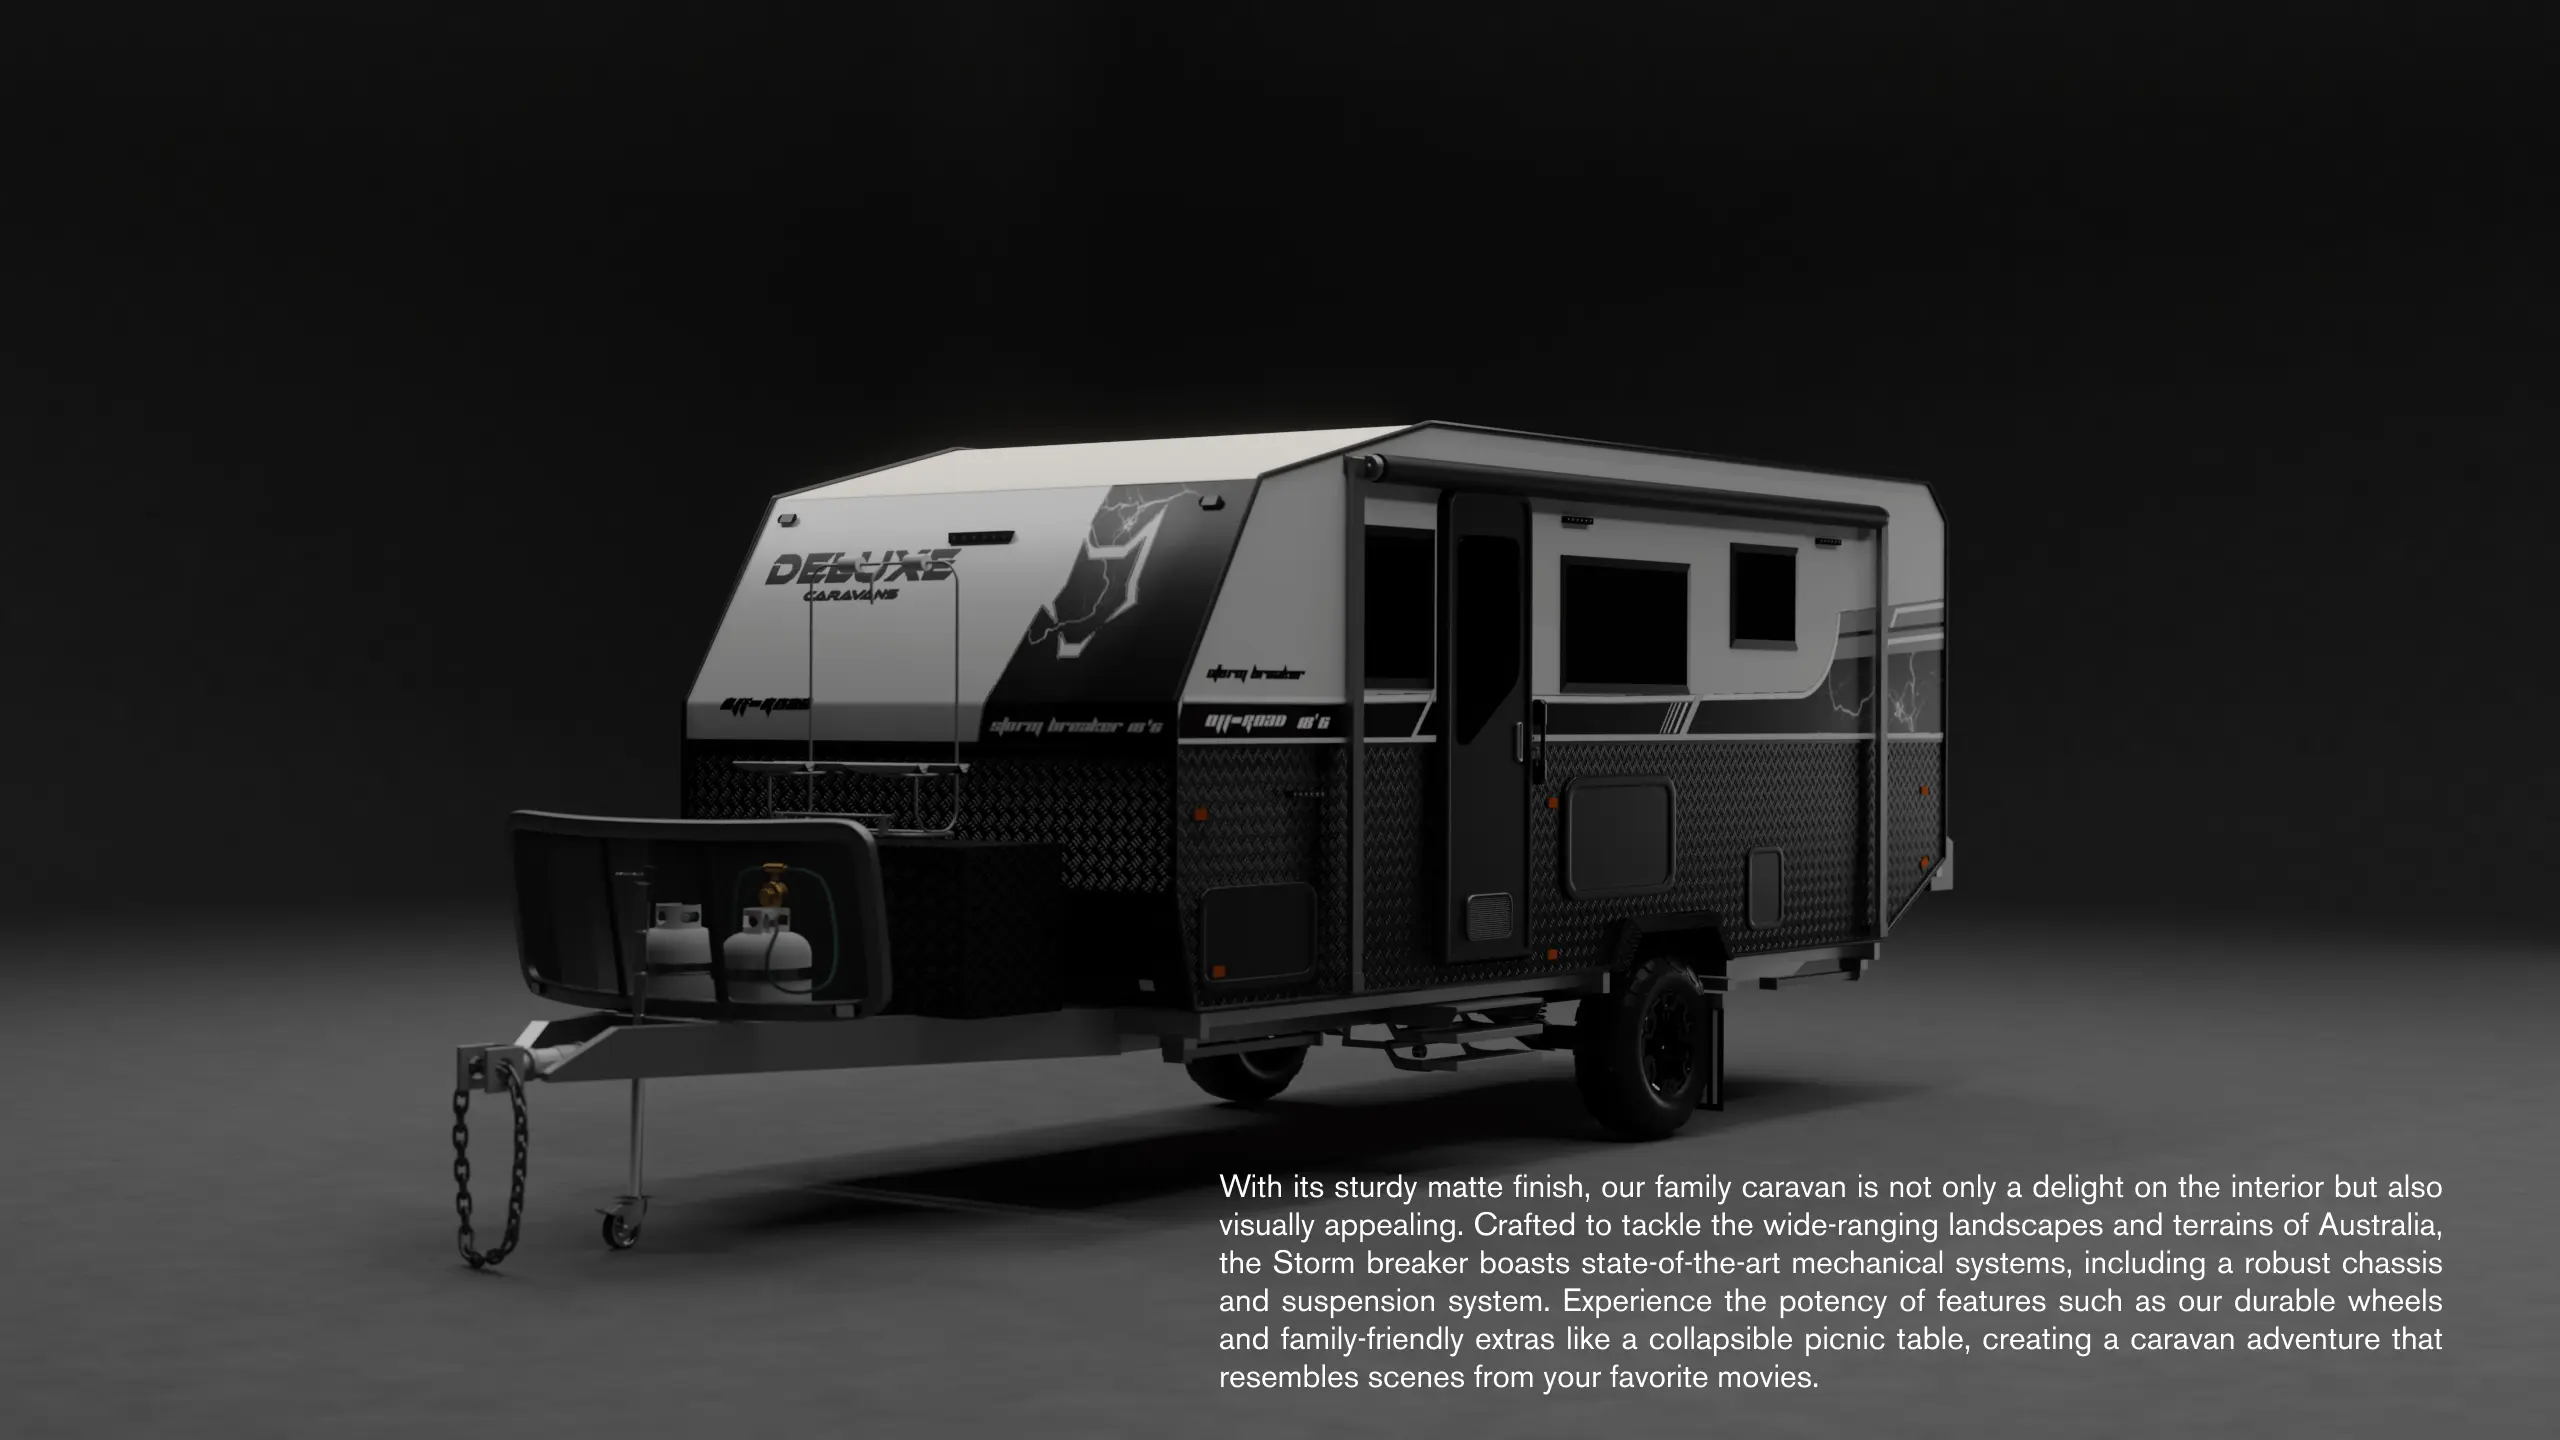
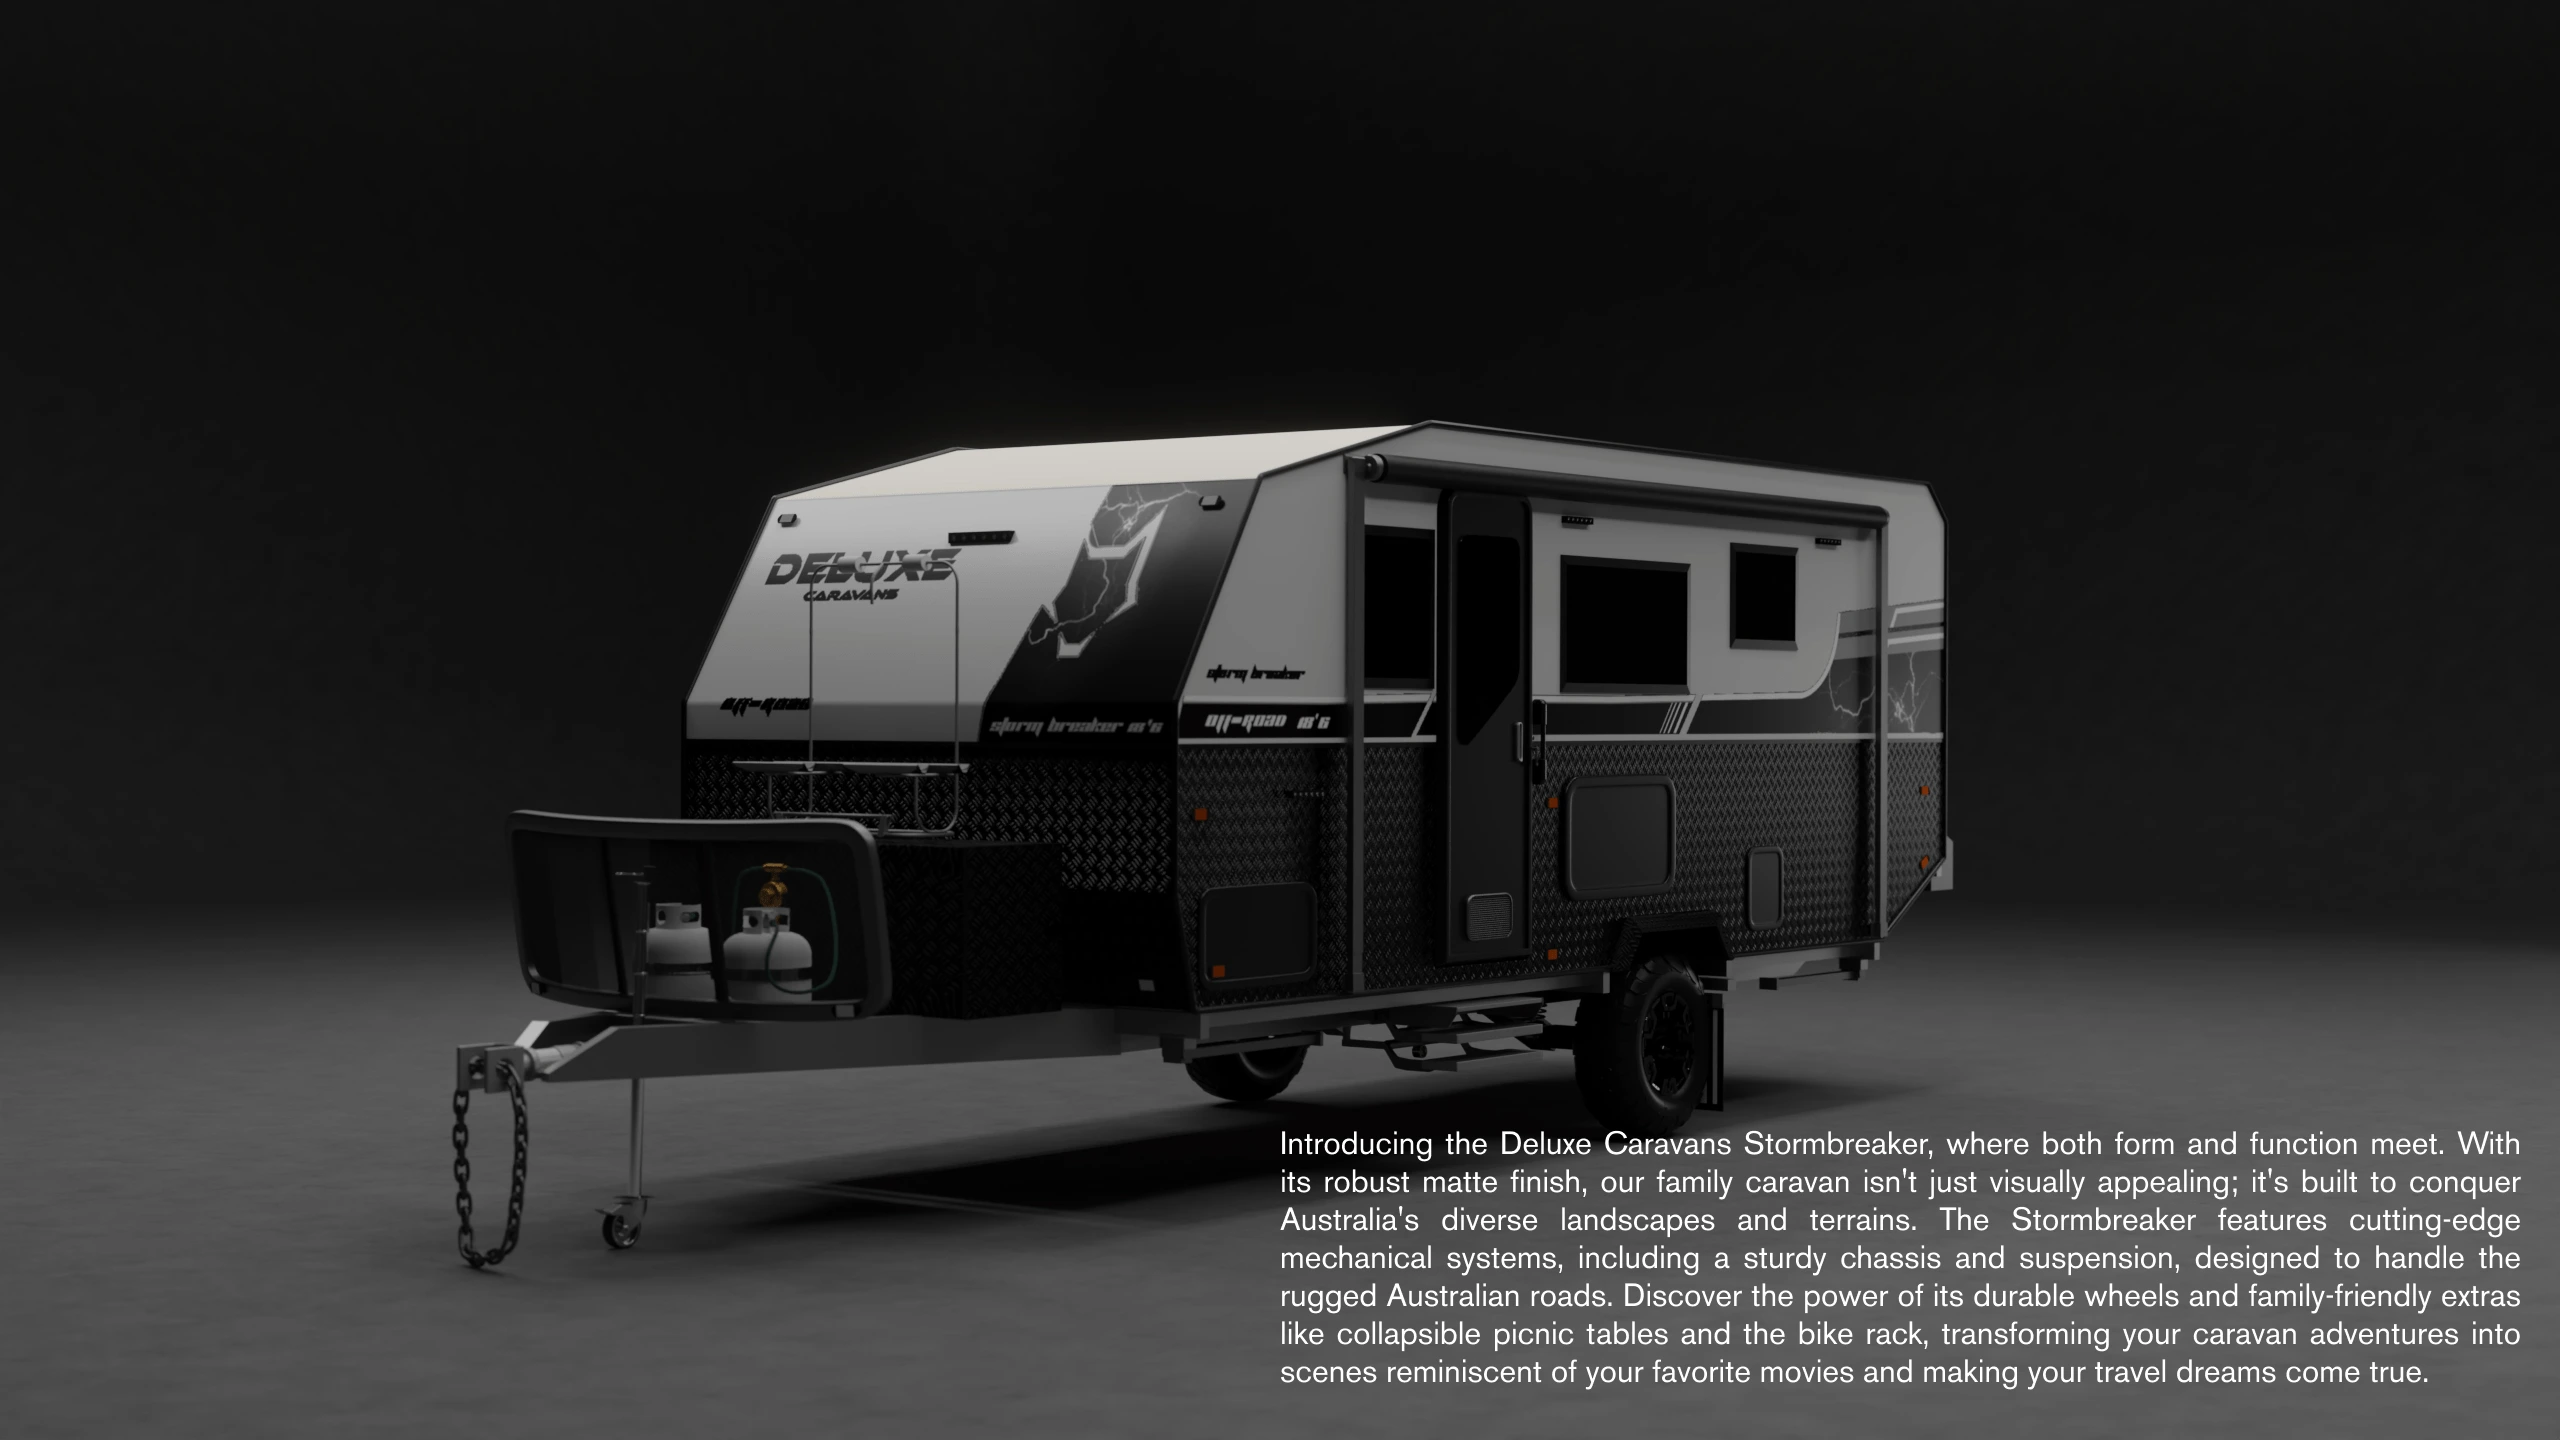
final version

Changed region(s): [[0.4688, 0.7812, 1.0, 0.9688]]

diff --git a/src/components/products/Stormbreaker21.jsx b/src/components/products/Stormbreaker21.jsx
@@ -103,18 +103,8 @@ function Stormbreaker21() {
         <div className="product-container" id="layout">
           <div className="description">
             <p>
-              Are you in search of a more spacious family bunk van? Look no
-              further; the Storm breaker 21'6 is the answer you've been seeking.
-              With this model, you're granted all the remarkable features found
-              in the 19'6 version. Each journey becomes a memorable experience,
-              thanks to its world-class interior, top-tier exterior, and
-              mechanical attributes. When you hit the open road with your
-              cherished companions, you're treated to a generously spacious
-              layout, complete with all the amenities you'd expect from a luxury
-              RV adventure. But we don't stop there—our commitment extends to
-              ensuring that your adventures have minimal impact on the
-              environment. With its eco-friendly features, you can travel
-              without guilt and bask in all the joy you rightfully deserve.
+            Are you on the hunt for a more spacious family bunk caravan? Your search ends here with the Stormbreaker 21'6, the solution you've been seeking. This model offers all the remarkable features found in the 19'6. Every journey transforms into an unforgettable experience, thanks to its premium built interior, exterior, and mechanical features. when you embark on the open road with your loved ones, you'll be treated to an exceptionally roomy layout, complete with all the amenities you'd expect from a luxury RV adventure. But our commitment doesn't end there- we ensure your adventures leave no environmental footprint. With eco-friendly features, you can travel without guilt and experience all the joy you deserve. 
+
             </p>
             <button
               className="btn hover-border-1 revealUp"

diff --git a/src/components/products/Stormbreaker18.jsx b/src/components/products/Stormbreaker18.jsx
@@ -102,16 +102,7 @@ function Stormbreaker18() {
         <div className="product-container" id="layout">
           <div className="description">
             <p>
-              Looking for a more compact caravan than the 18'6 model? Your quest
-              for a snug yet stylish travel companion ends here. The 18'6 model
-              offers a perfect blend of convenience and comfort, making your
-              journeys truly enjoyable. With its space-saving design and
-              well-appointed interior, you'll find everything you need for your
-              adventures. Don't compromise on quality or features; this compact
-              caravan ensures you have all you desire for memorable travels.
-              Plus, it's designed with eco-friendly elements to minimize your
-              environmental footprint, so you can explore with a clear
-              conscience.
+            Are you looking for a small compact caravan that has everything for your family caravanning adventure? Discover the ideal combination of snug comfort and stylish travel with the Deluxe Caravan 18'6 Stormbreaker. This is our smallest family bunk van and this model effortlessly combines convenience and comfort, ensuring your journeys are truly enjoyable. Its space-saving design and well-appointed interior provide everything you need for your adventures. The quality and features are uncompromised in this compact caravan, guaranteeing all you desire for memorable travels. Additionally, its thoughtfully designed with eco-friendly elements to minimize your environmental footprint, so you can explore with a clear conscience. Your next adventure awaits with the 18'6 Stormbreaker. 
             </p>
             <button
               className="btn hover-border-1 revealUp"

diff --git a/src/components/products/Stormbreaker19.jsx b/src/components/products/Stormbreaker19.jsx
@@ -102,16 +102,7 @@ function Stormbreaker19() {
         <div className="product-container" id="layout">
           <div className="description">
             <p>
-              Are you looking for a smaller family bunk van? Then this is model
-              is the answer. With the Storm breaker 19’6, you get all the
-              features of the 21’6 model. Every journey is one to remember with
-              its world-class interior and top-notch exterior and mechanical
-              features. When you take to the road with your favourite people,
-              you enjoy a spacious layout with all the facilities you expect
-              from a luxury RV experience. We don’t just stop there—we make sure
-              your adventures don’t leave a mark on the environment. With its
-              eco-friendly features, travel without the guilt but with all the
-              joy you deserve.
+            Searching for a compact family bunk caravan? Look no further. The Stormbreaker 19'6 is the perfect solution, offering all the features of the 21'6 model. Every journey becomes a memorable experience with its premium built interior, exterior, and mechanical attributes. When you hit the open road with your loved ones, you'll enjoy a spacious layout and all the amenities you'd expect from a luxury RV. But our commitment doesn't end there- we ensure your adventures leave no environmental footprint. With eco-friendly features, you can travel without guilt and experience all the joy you deserve. 
             </p>
             <button
               className="btn hover-border-1 revealUp"
